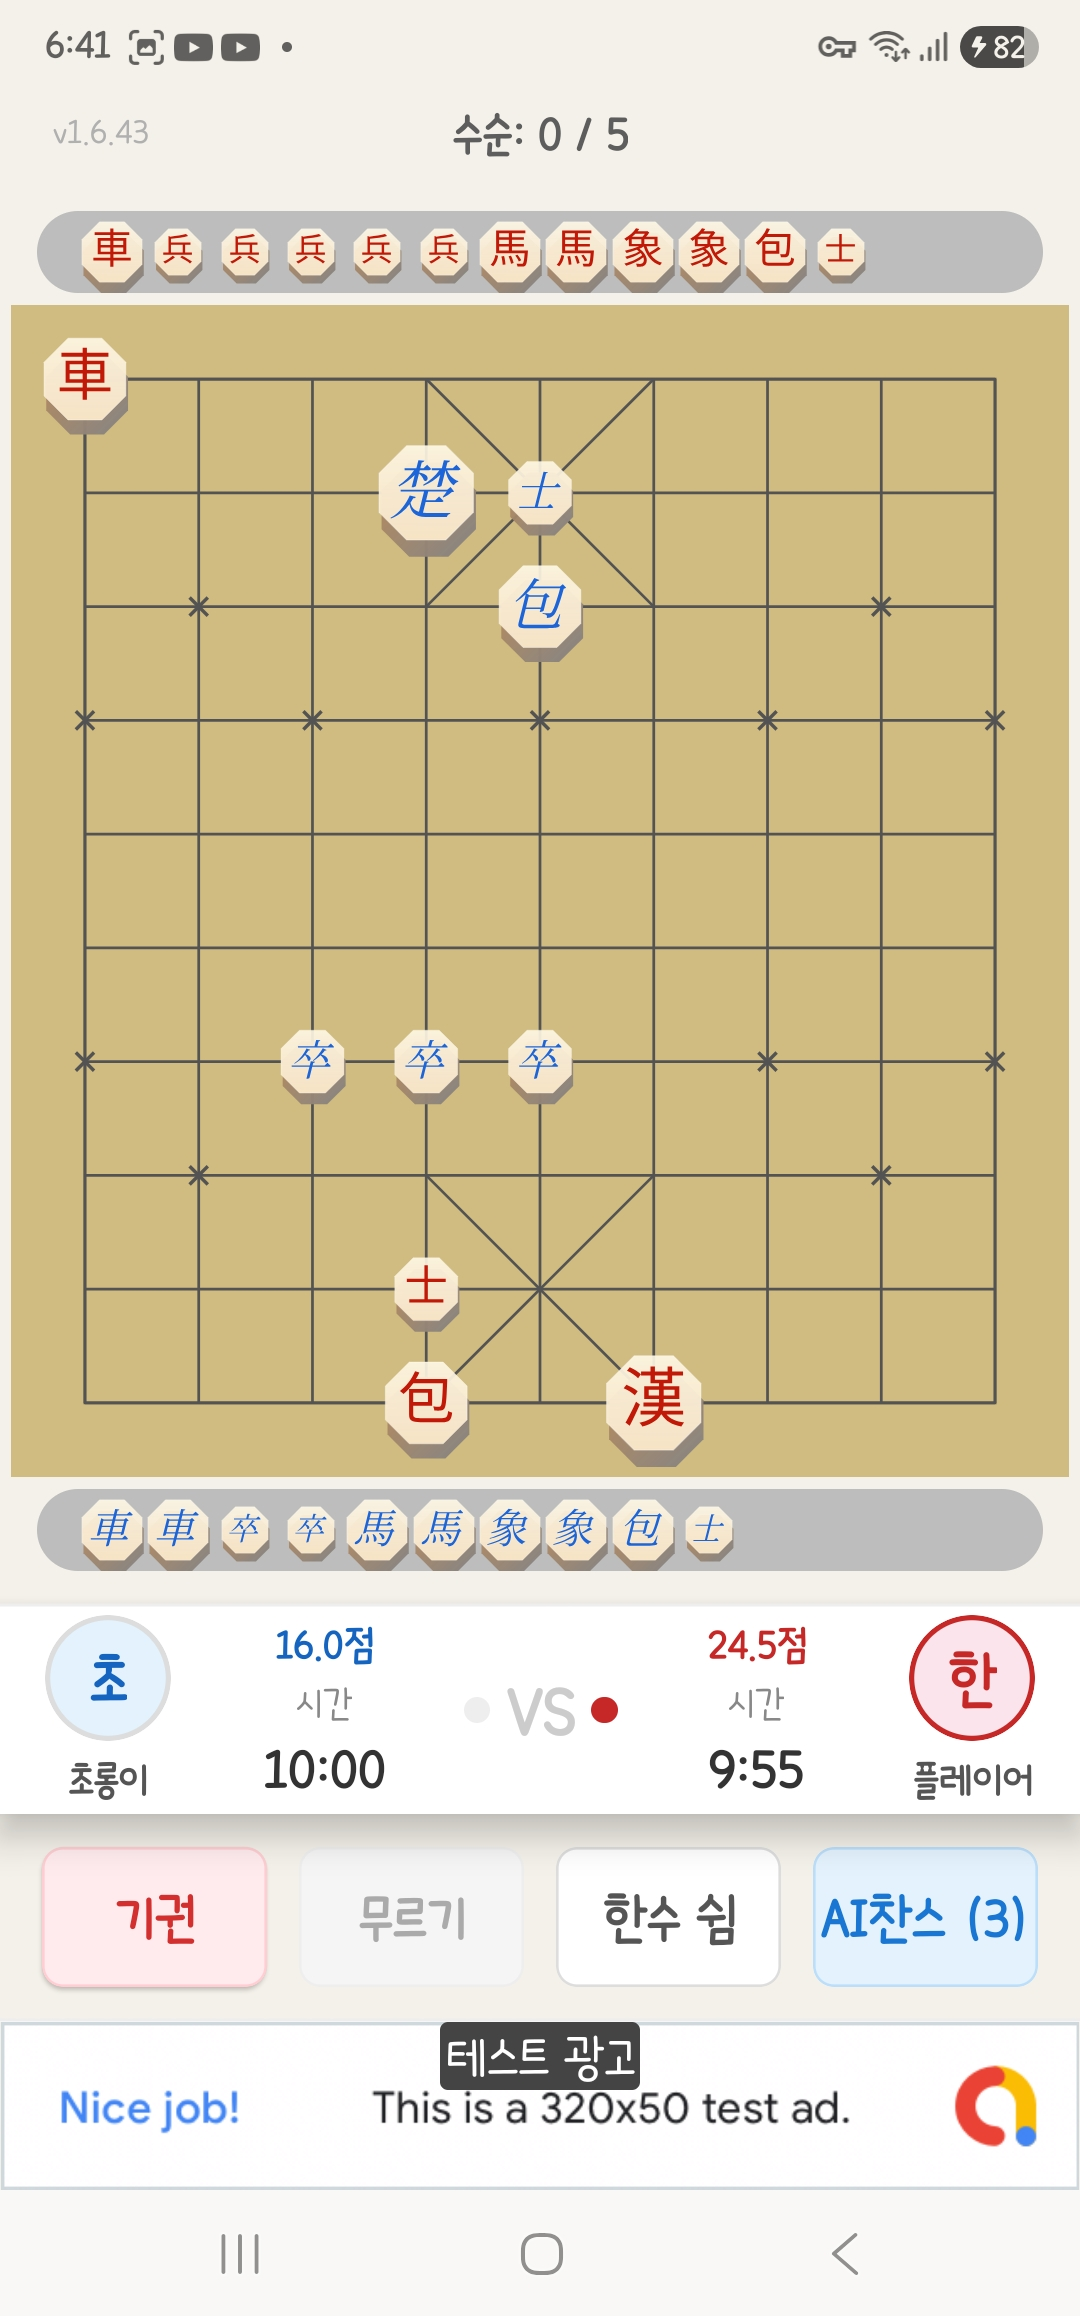
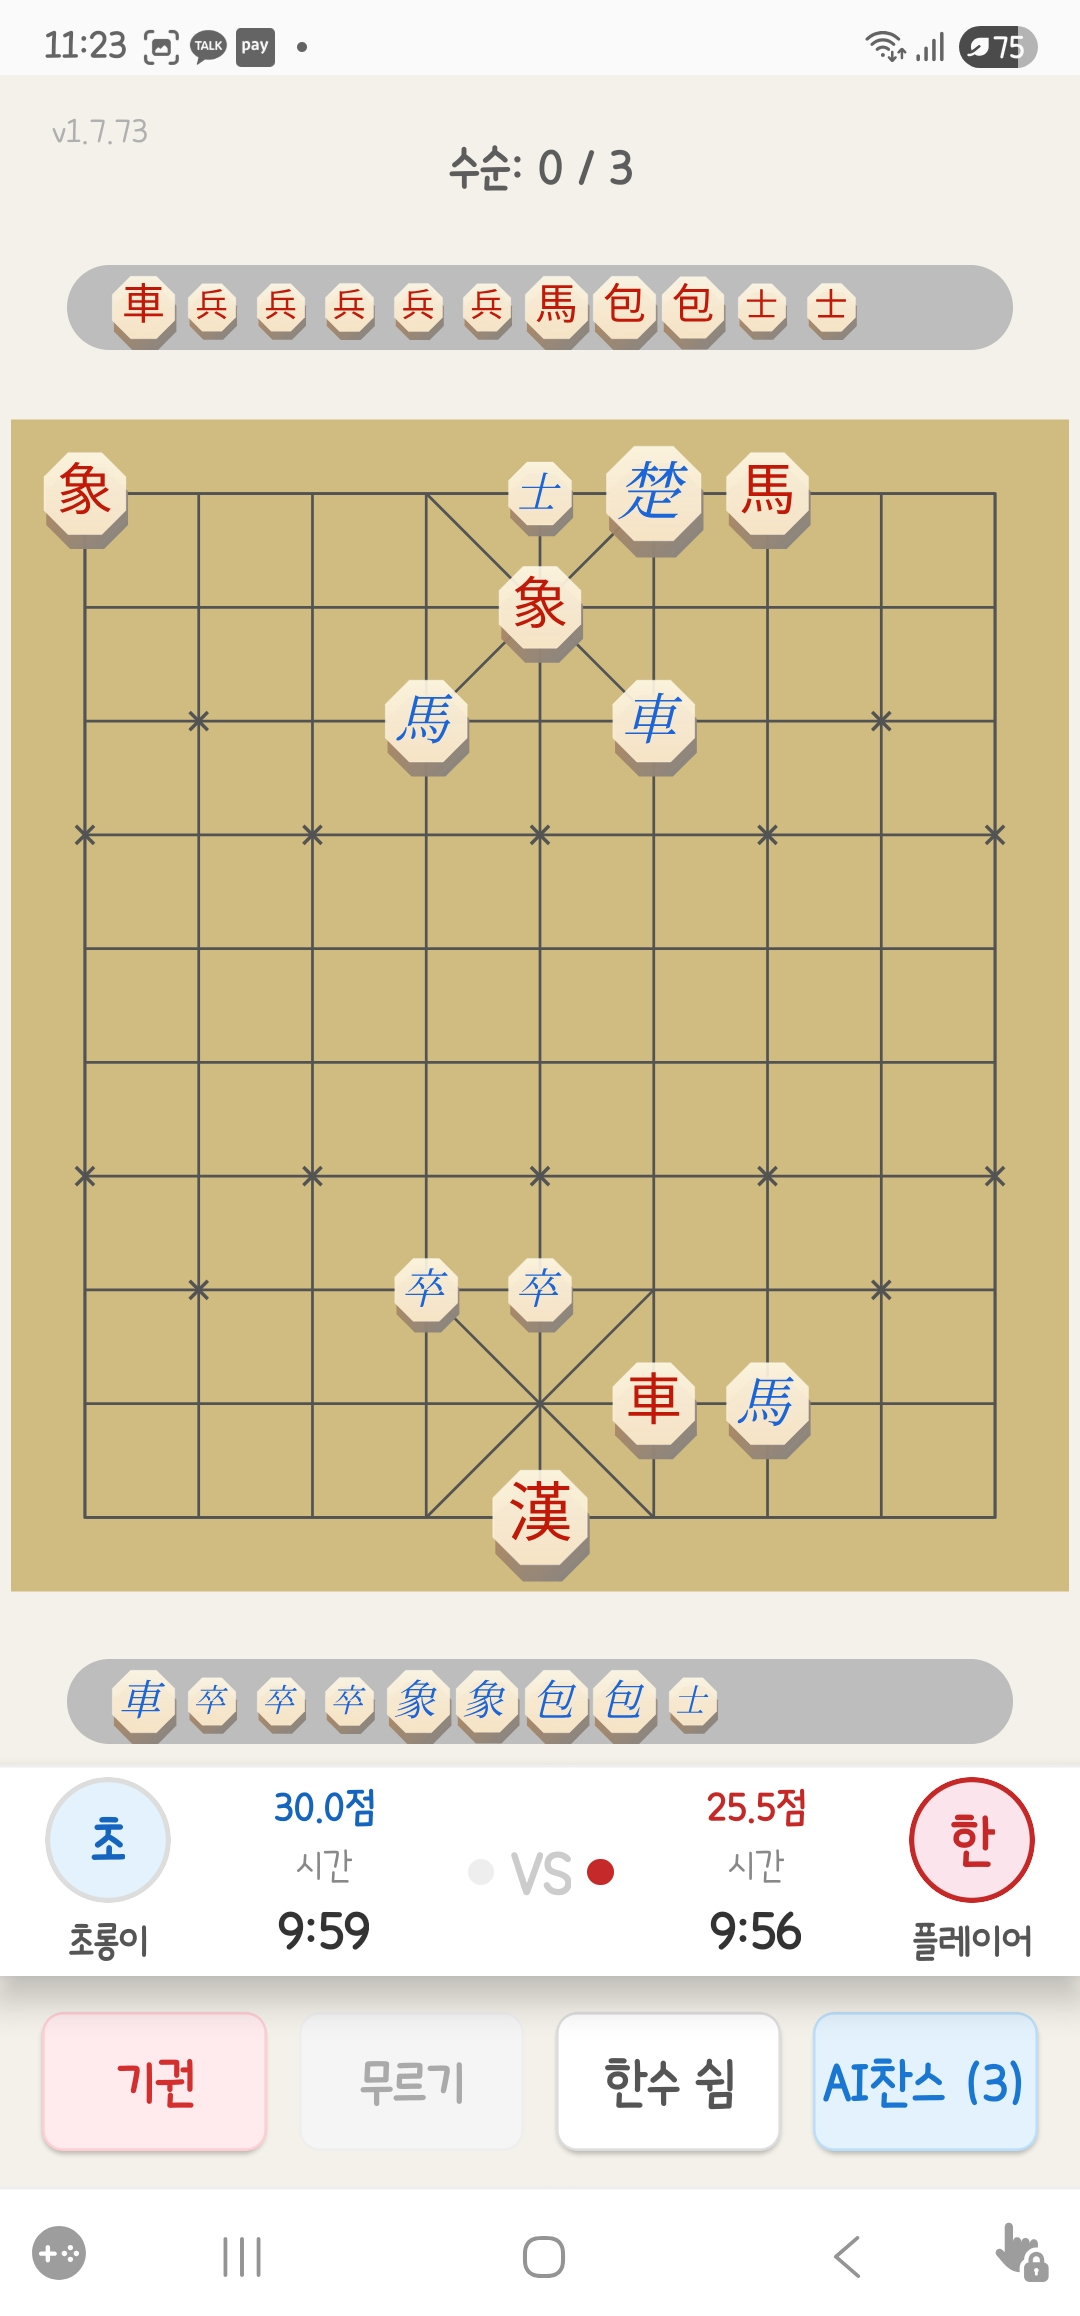
Deploying to main from @ flitsky/Janggi-App@35b1f2fdf0d06c6f57f540d8957726119924e024 🚀

diff --git a/release-note/index.html b/release-note/index.html
@@ -179,40 +179,37 @@
             <a href="../index.html" class="back-link">← 홈으로 돌아가기</a>
         </header>
 
-        <!-- v1.7.0 Release -->
+        <!-- v1.7.73 Release -->
         <article class="release-card">
             <div class="version-header">
                 <div style="display: flex; align-items: center; gap: 15px;">
-                    <span class="version-tag">v1.7.0</span>
-                    <h2>더 넓어진 화면과 초보자를 위한 특별 강좌</h2>
+                    <span class="version-tag">v1.7.73</span>
+                    <h2>사용자 피드백 반영 및 안정화</h2>
                 </div>
-                <span class="release-date">2026년 2월 2일</span>
+                <span class="release-date">2026년 2월 8일</span>
             </div>
 
             <p>
-                이제 '장기 배우기' 메뉴에서 엄선된 명강의를 보며 기초를 다질 수 있습니다.<br>
-                또한 최신 안드로이드 기기에서 화면을 꽉 채우는 몰입감 있는 디자인을 경험해 보세요.
+                사용자 여러분의 의견을 반영해 대국 중 앱 전환 시 자동으로 일시 정지되며,<br>
+                캐릭터 선택 화면의 이미지 품질과 가독성을 개선했습니다. 앞으로 더 많은 요청을 빠르게 반영할 수 있도록 내부 구조도 정비했습니다.
             </p>
 
             <h3>✨ 주요 변경 사항 (Highlights)</h3>
             <ul>
                 <li>
+                    <span class="tag-impr">UX</span>
+                    <strong>캐릭터 선택 화면 이미지 개선</strong><br>
+                    캐릭터 이미지가 더 선명하게 보이도록 개선해 선택 과정이 한층 편해졌습니다.
+                </li>
+                <li>
                     <span class="tag-feat">New</span>
-                    <strong>장기 배우기 (Learn Janggi)</strong><br>
-                    초보 탈출을 위한 엄선된 유튜브 강좌 7편을 인앱에서 바로 시청할 수 있습니다.<br>
-                    기물 이동법부터 필승 포진법까지, 영상을 보며 쉽고 재미있게 실력을 키워보세요.
+                    <strong>앱 전환 시 자동 일시 정지</strong><br>
+                    대국 중 다른 앱으로 이동해도 자동으로 일시 정지되어 실수로 시간을 잃지 않습니다.
                 </li>
                 <li>
-                    <span class="tag-impr">UX</span>
-                    <strong>Edge-to-Edge 디스플레이 (Android 15)</strong><br>
-                    최신 안드로이드 가이드라인을 적용하여 상단 상태바부터 하단 내비게이션 바까지 화면 전체를 활용합니다.<br>
-                    답답한 여백 없이 더욱 시원하고 몰입감 넘치는 대국 환경을 제공합니다.
-                </li>
-                <li>
-                    <span class="tag-impr">UX</span>
-                    <strong>메인 화면 개편</strong><br>
-                    사용자 피드백을 반영하여 '오늘의 묘수' 메뉴를 상단으로 배치했습니다.<br>
-                    매일의 도전을 더욱 빠르고 편리하게 시작할 수 있습니다.
+                    <span class="tag-impr">Impr</span>
+                    <strong>앞으로 더 빠른 개선을 위한 정비</strong><br>
+                    사용자 요청을 더 빠르고 안정적으로 반영할 수 있도록 내부 구조를 다듬었습니다.
                 </li>
             </ul>
         </article>

diff --git a/index.html b/index.html
@@ -362,8 +362,8 @@
             style="background: rgba(255, 255, 255, 0.95); border: 1px solid #ddd;">
             <p><strong>🎉 정식 출시 (Official Launch)</strong></p>
             <p style="margin-top:8px; font-size: 0.95rem;">
-                v1.7.0 업데이트가 완료되었습니다.<br>
-                새로운 '장기 배우기'와 더 넓어진 화면을 경험해보세요.
+                v1.7.73 업데이트가 완료되었습니다.<br>
+                사용자 피드백으로 '대국 일시 정지 기능'을 추가하고 안정성을 더했습니다.
             </p>
         </div>
 
